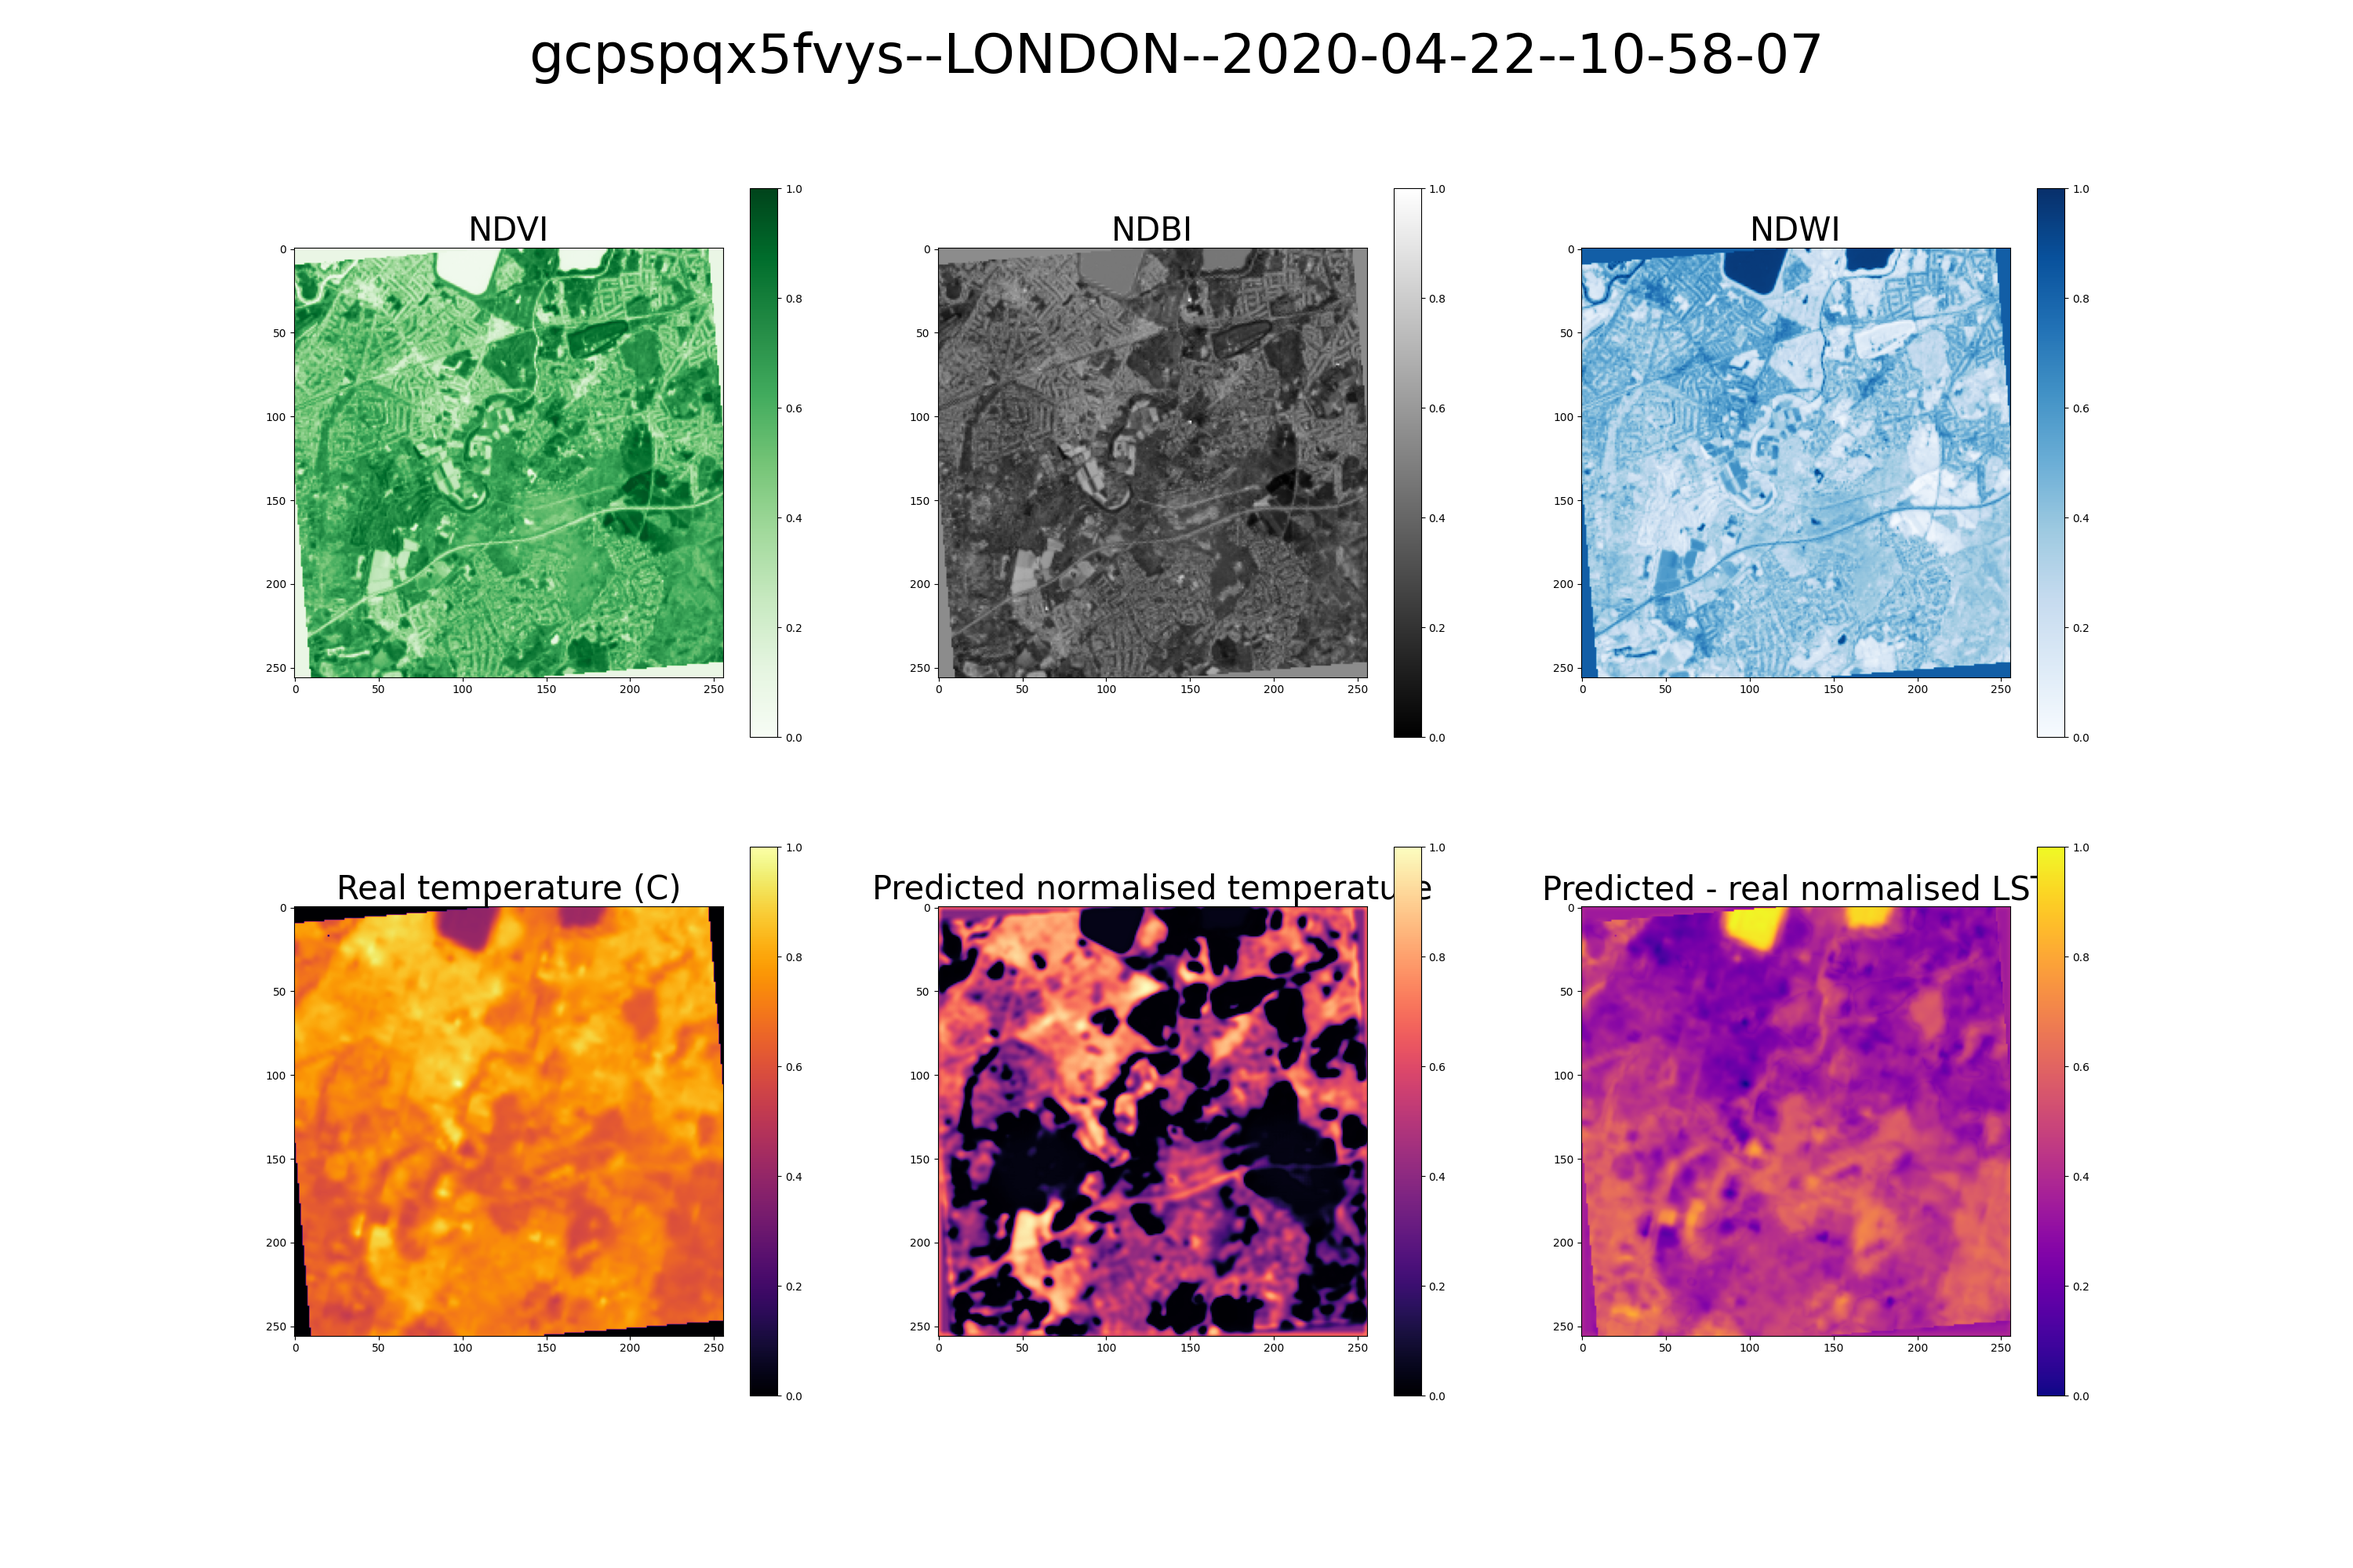
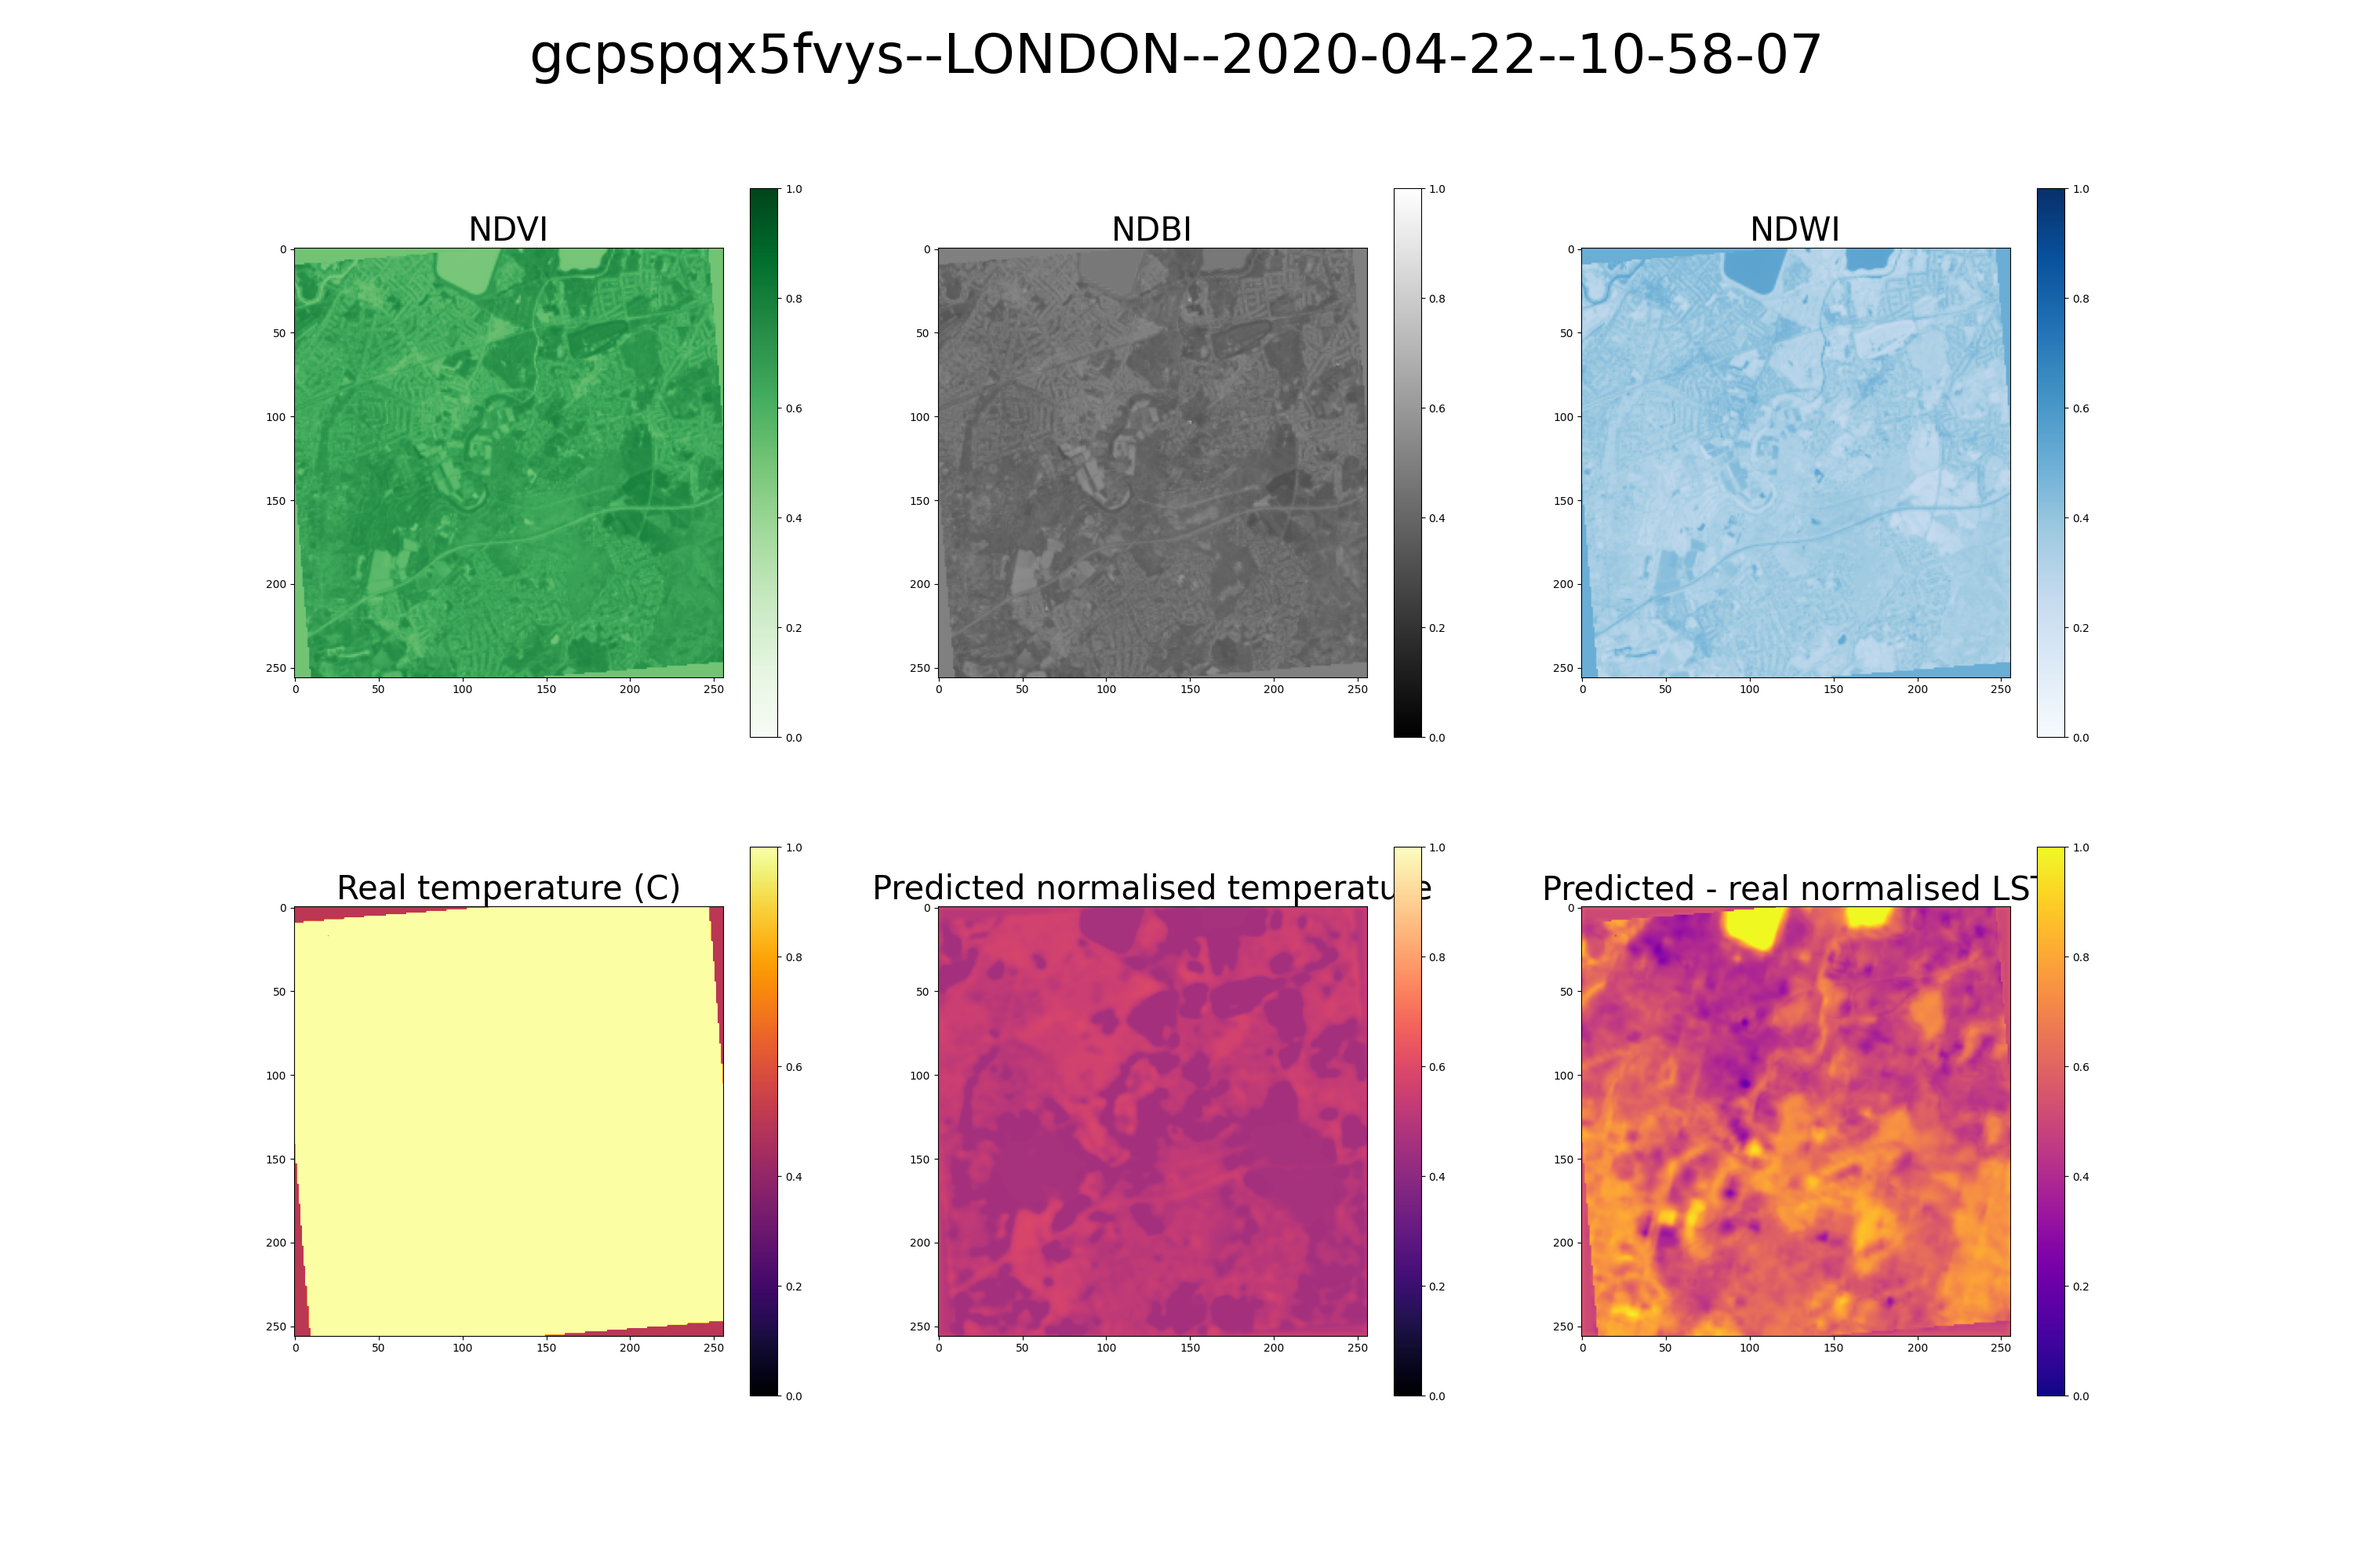
more results

diff --git a/test_cGAN.py b/test_cGAN.py
@@ -24,7 +24,6 @@ for image_id in tqdm(image_ids):
     imV[imV!=imV]=0
     imB[imB!=imB]=0
     imW[imW!=imW]=0
-
     image = np.dstack([imV, imB, imW])
 
     LSTN_real = read_raster(f'{image_id}.LSTN.tif')[0][:,:,np.newaxis]
@@ -40,27 +39,27 @@ for image_id in tqdm(image_ids):
     fig, axs = plt.subplots(2, 3, figsize = (30, 20))
     fig.suptitle(image_name, fontsize=50)
 
-    axs[0,0].imshow(imV, cmap='Greens')
+    axs[0,0].imshow(imV, cmap='Greens', vmin=-1.0, vmax=1.0)
     axs[0,0].set_title("NDVI", fontsize = 30)
     fig.colorbar(cm.ScalarMappable(cmap='Greens'), ax=axs[0,0])
 
-    axs[0,1].imshow(imB, cmap='gray')   
+    axs[0,1].imshow(imB, cmap='gray', vmin=-1.0, vmax=1.0)  
     axs[0,1].set_title("NDBI", fontsize = 30)
     fig.colorbar(cm.ScalarMappable(cmap='gray'), ax=axs[0,1])
 
-    axs[0,2].imshow(imW, cmap='Blues')  
+    axs[0,2].imshow(imW, cmap='Blues', vmin=-1.0, vmax=1.0)
     axs[0,2].set_title("NDWI", fontsize = 30)
     fig.colorbar(cm.ScalarMappable(cmap='Blues'), ax=axs[0,2])
 
-    axs[1,0].imshow(LST_real, cmap='inferno')
+    axs[1,0].imshow(LST_real, cmap='inferno', vmin=-3.0, vmax=3.0)
     axs[1,0].set_title("Real temperature (C)", fontsize = 30)
     fig.colorbar(cm.ScalarMappable(cmap='inferno'), ax=axs[1,0])
 
-    axs[1,1].imshow(LSTN_pred, cmap='magma')  
+    axs[1,1].imshow(LSTN_pred, cmap='magma', vmin=-3.0, vmax=3.0)  
     axs[1,1].set_title("Predicted normalised temperature", fontsize = 30)
     fig.colorbar(cm.ScalarMappable(cmap='magma'), ax=axs[1,1])
 
-    axs[1,2].imshow(LSTN_pred-LSTN_real, cmap='plasma') 
+    axs[1,2].imshow(LSTN_pred-LSTN_real, cmap='plasma', vmin=-3.0, vmax=3.0) 
     axs[1,2].set_title("Predicted - real normalised LST", fontsize = 30)
     fig.colorbar(cm.ScalarMappable(cmap='plasma'), ax=axs[1,2])
 
